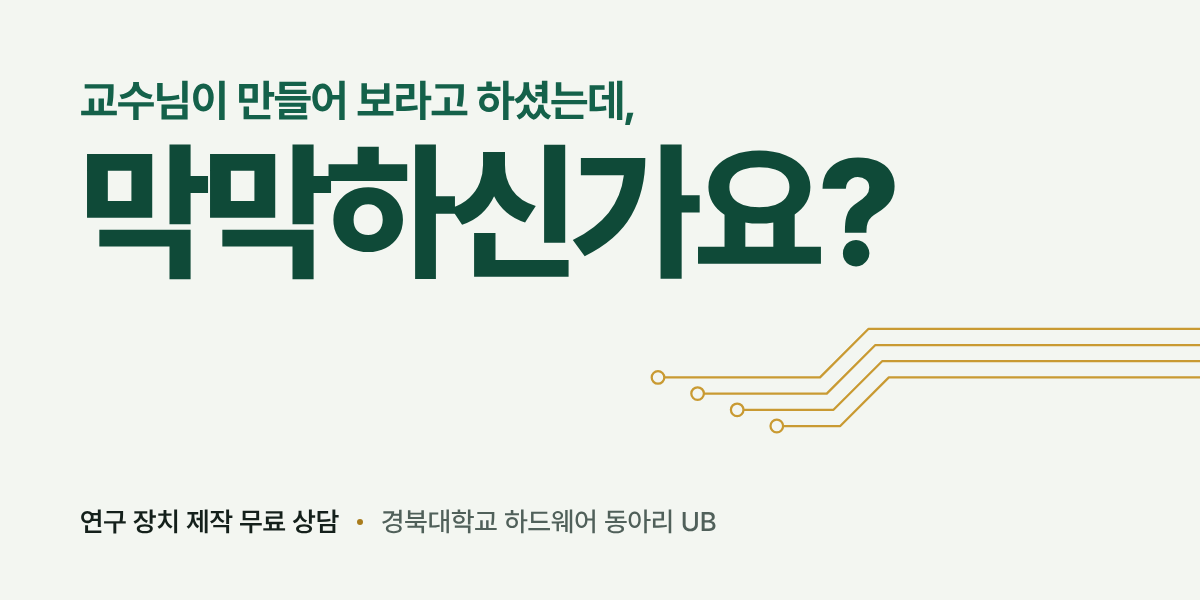
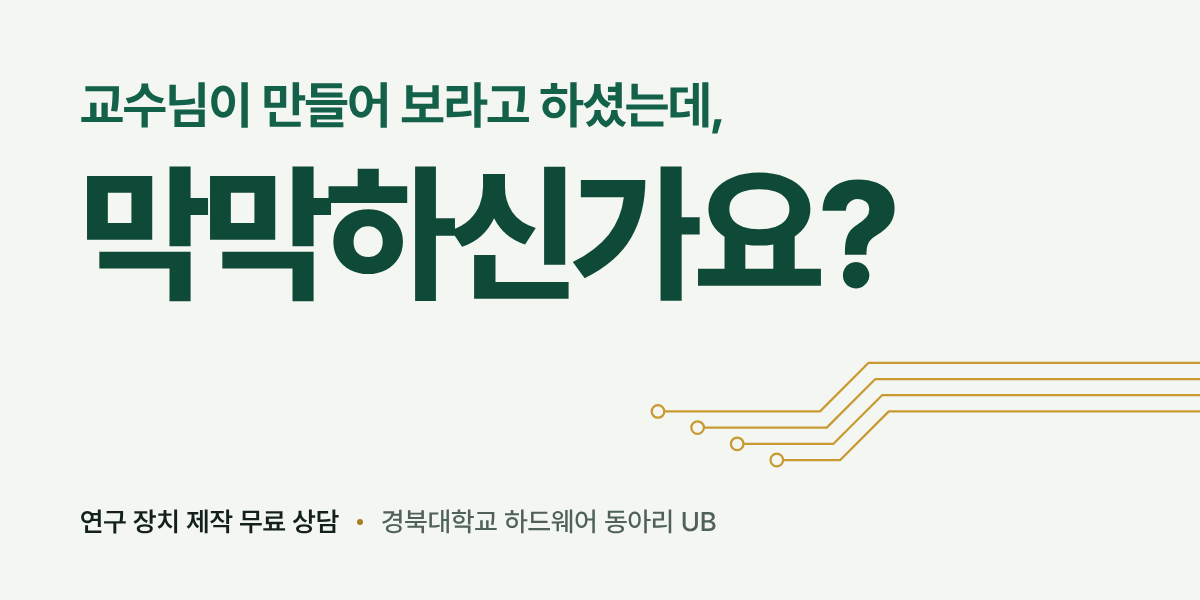
상담 페이지 링크 미리보기 이미지 위치·크기 조정
- 윗줄 문구 키움, 큰 제목과 배선 무늬를 조금 아래로 내림
- 카톡 캐시를 피하려고 이미지 주소를 ?v=2로 변경

Claude-Session: https://claude.ai/code/session_01TphRbaS98QUrM39FgYHpeX

diff --git a/lab/index.html b/lab/index.html
@@ -11,7 +11,7 @@
 <meta property="og:description" content="연구 장치, 어떻게 만들지부터 같이 봐 드립니다. 상담은 무료이고, 의뢰까지 안 가도 됩니다.">
 <meta property="og:url" content="https://kimstructor.github.io/knueeub/lab/">
 <meta property="og:type" content="website">
-<meta property="og:image" content="https://kimstructor.github.io/knueeub/assets/og/lab.png?v=1">
+<meta property="og:image" content="https://kimstructor.github.io/knueeub/assets/og/lab.png?v=2">
 <meta property="og:image:width" content="1200">
 <meta property="og:image:height" content="600">
 <meta name="twitter:card" content="summary_large_image">
